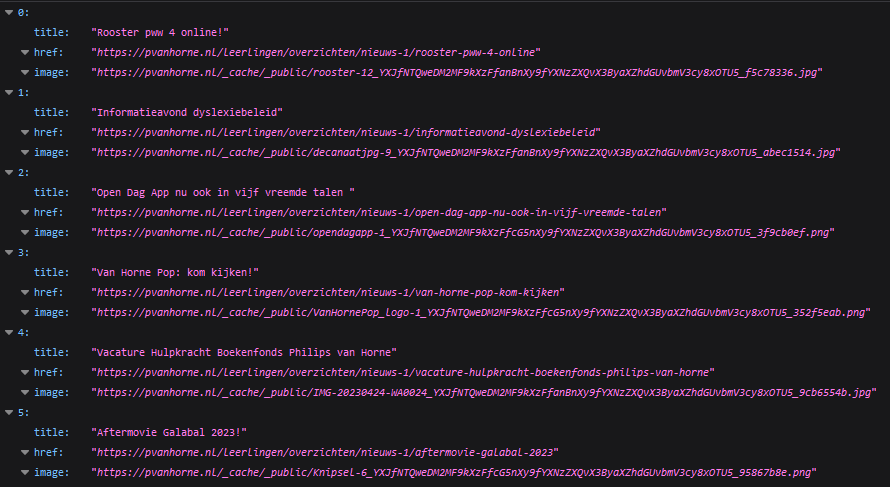
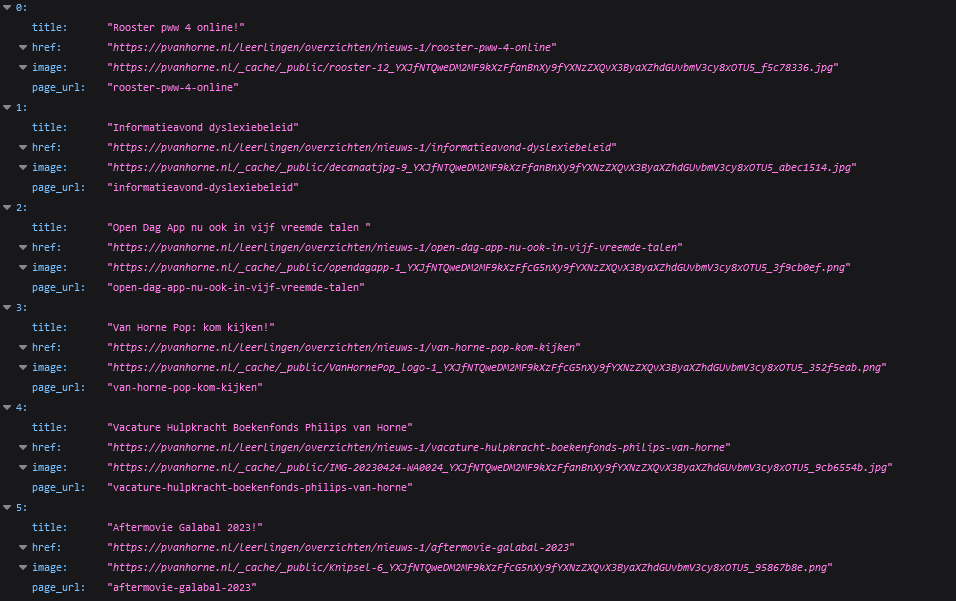
Nieuwsdetails endpoint

diff --git a/src/scraper.rs b/src/scraper.rs
@@ -5,6 +5,17 @@ pub struct News {
     pub title: String,
     pub href: String,
     pub image: String,
+    pub page_url: String,
+}
+
+
+#[derive(Serialize, Deserialize, Debug)]
+pub struct NewsDetails {
+    pub title: String,
+    pub date: String,
+    pub content: String,
+    pub images: Vec<String>,
+    pub links: Vec<String>,
 }
 
 
@@ -22,13 +33,101 @@ pub async fn get_news(page_index: &str) -> Vec<News> {
             Some(image) => format!("https://pvanhorne.nl{}", image.value().attr("src").unwrap()),
             None => String::from(""),
         };
+        let page_url = href.split("/").collect::<Vec<_>>()[4].to_string();
 
         news.push(News {
             title,
             href: format!("https://pvanhorne.nl{}", href),
             image,
+            page_url,
         });
     }
 
     news
+}
+
+
+pub async fn get_news_details(page_url: &str) -> NewsDetails {
+    let response = reqwest::get(format!("https://pvanhorne.nl/leerlingen/overzichten/nieuws-1/{}", page_url))
+                    .await.unwrap()
+                    .text()
+                    .await.unwrap();
+    let document = scraper::Html::parse_document(&response);
+    let selector = scraper::Selector::parse("div[class='news-view']").unwrap();
+
+    let title = document.select(&scraper::Selector::parse("h1").unwrap())
+                    .next().unwrap().text()
+                    .collect::<Vec<_>>()
+                    .join("").trim().to_string();
+
+    let date = document.select(&scraper::Selector::parse("div[class='news-date']").unwrap())
+                    .next().unwrap().text()
+                    .collect::<Vec<_>>()
+                    .join("").trim().to_string();
+
+    let images = document.select(&selector)
+                    .next().unwrap()
+                    .select(&scraper::Selector::parse("img").unwrap())
+                    .map(|element| format!("https://pvanhorne.nl{}", element.value().attr("src").unwrap()))
+                    .collect::<Vec<String>>();
+
+    let links = document.select(&selector)
+                    .next().unwrap()
+                    .select(&scraper::Selector::parse("a:not([class='news-back'])").unwrap())
+                    .map(|element| {
+                        let href = element.value().attr("href").unwrap();
+                        if href.starts_with("http") { href.to_string() }
+                        else { format!("https://pvanhorne.nl{}", href) }
+                    })
+                    .collect::<Vec<String>>();
+
+    let content_selector = scraper::Selector::parse("div[class='news-view-content']").unwrap();
+    let mut content: Vec<String> = Vec::new();
+
+    for element in document.select(&content_selector) {
+        content.push(
+            element
+                .text()
+                .collect::<Vec<_>>()
+                .join(" ")
+                .replace("\n", "")
+                .replace("\t", "")
+                .replace("\r", "")
+                .replace("  ", "")
+                .trim().to_string()
+        );
+    }
+
+
+    NewsDetails {
+        title,
+        images,
+        date: parse_date(&date).await,
+        content: content.join(" "),
+        links,
+    }
+}
+
+
+async fn parse_date(date: &str) -> String {
+    let date = date.split(" ").collect::<Vec<_>>();
+    let day = date[0];
+    let month = match date[1] {
+        "januari" => "01",
+        "februari" => "02",
+        "maart" => "03",
+        "april" => "04",
+        "mei" => "05",
+        "juni" => "06",
+        "juli" => "07",
+        "augustus" => "08",
+        "september" => "09",
+        "oktober" => "10",
+        "november" => "11",
+        "december" => "12",
+        _ => "00",
+    };
+    let year = date[2];
+
+    format!("{}-{}-{}", day, month, year)
 }

diff --git a/src/main.rs b/src/main.rs
@@ -15,6 +15,7 @@ async fn main() -> io::Result<()> {
         App::new()
             .wrap(middleware::Logger::default())
             .service(get_news_page)
+            .service(get_news_details)
     })
         .bind("0.0.0.0:8549")?
         .run()
@@ -29,4 +30,11 @@ async fn get_news_page(req: HttpRequest) -> impl Responder {
     let page = req.match_info().get("page").unwrap();
     let news = scraper::get_news(page).await;
     web::Json(news)
+}
+
+#[get("/api/news/details/{page_url}")]
+async fn get_news_details(req: HttpRequest) -> impl Responder {
+    let page_url = req.match_info().get("page_url").unwrap();
+    let news_details = scraper::get_news_details(page_url).await;
+    web::Json(news_details)
 }

diff --git a/README.md b/README.md
@@ -111,6 +111,7 @@ De API is te gebruiken door iedereen zodra deze draait.
 
 De API heeft de volgende endpoints:
 * `/api/news/:page` - Geeft alle nieuwsberichten terug voor de opgegeven pagina
+* `/api/news/details/:page_id` - Geeft de details van een nieuwsbericht terug
 
 <p align="right">(<a href="#readme-top">terug naar boven</a>)</p>
 
@@ -120,6 +121,7 @@ De API heeft de volgende endpoints:
 ## Roadmap
 
 - [x] Nieuwsberichten ophalen voor elke pagina
+- [x] Nieuwsbericht details ophalen 
 - [ ] Kalender ophalen
 
 Zie de [open problemen](https://github.com/philipsvanhorne/nieuws_api/issues) voor een volledige lijst met voorgestelde functies (en bekende problemen).
